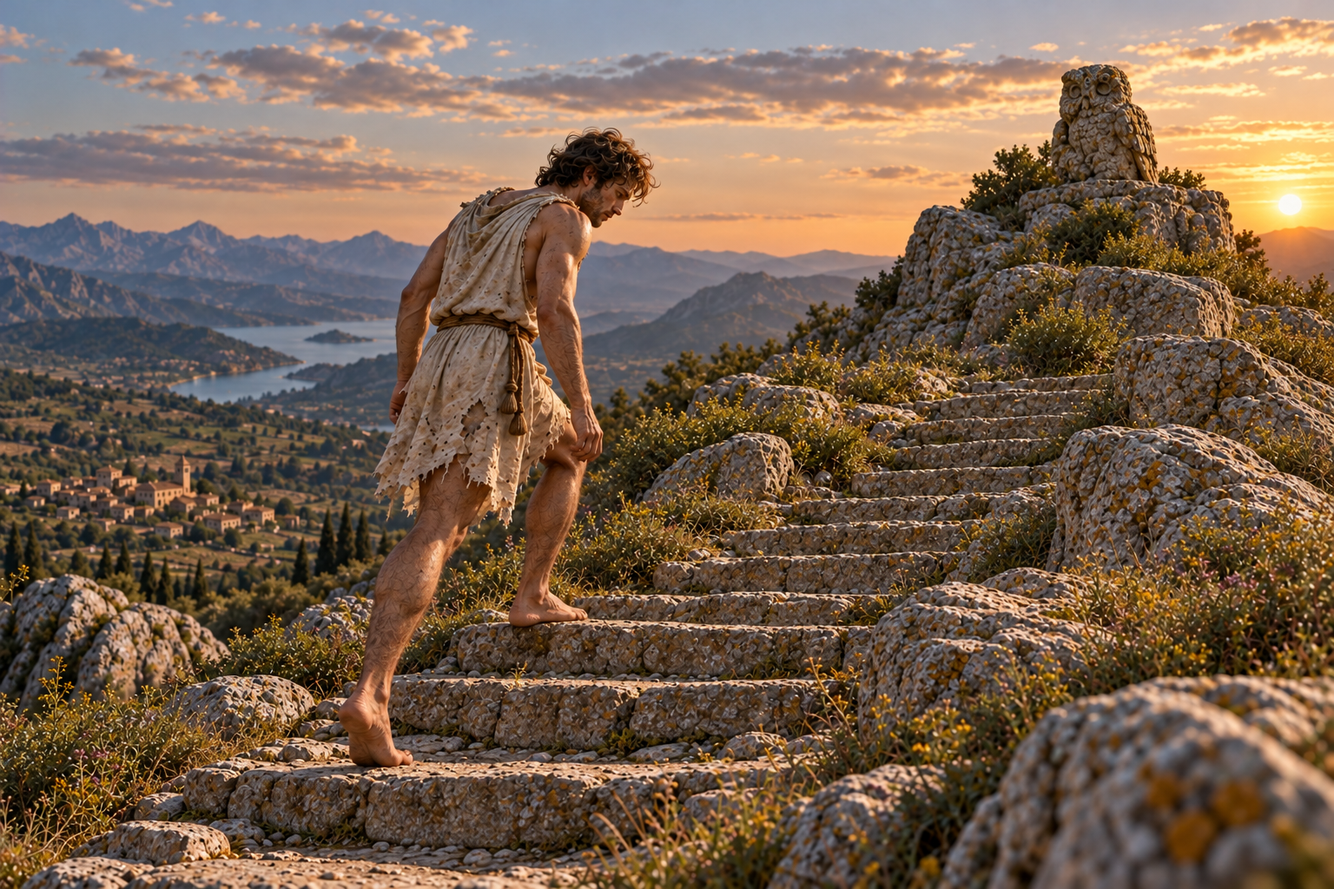
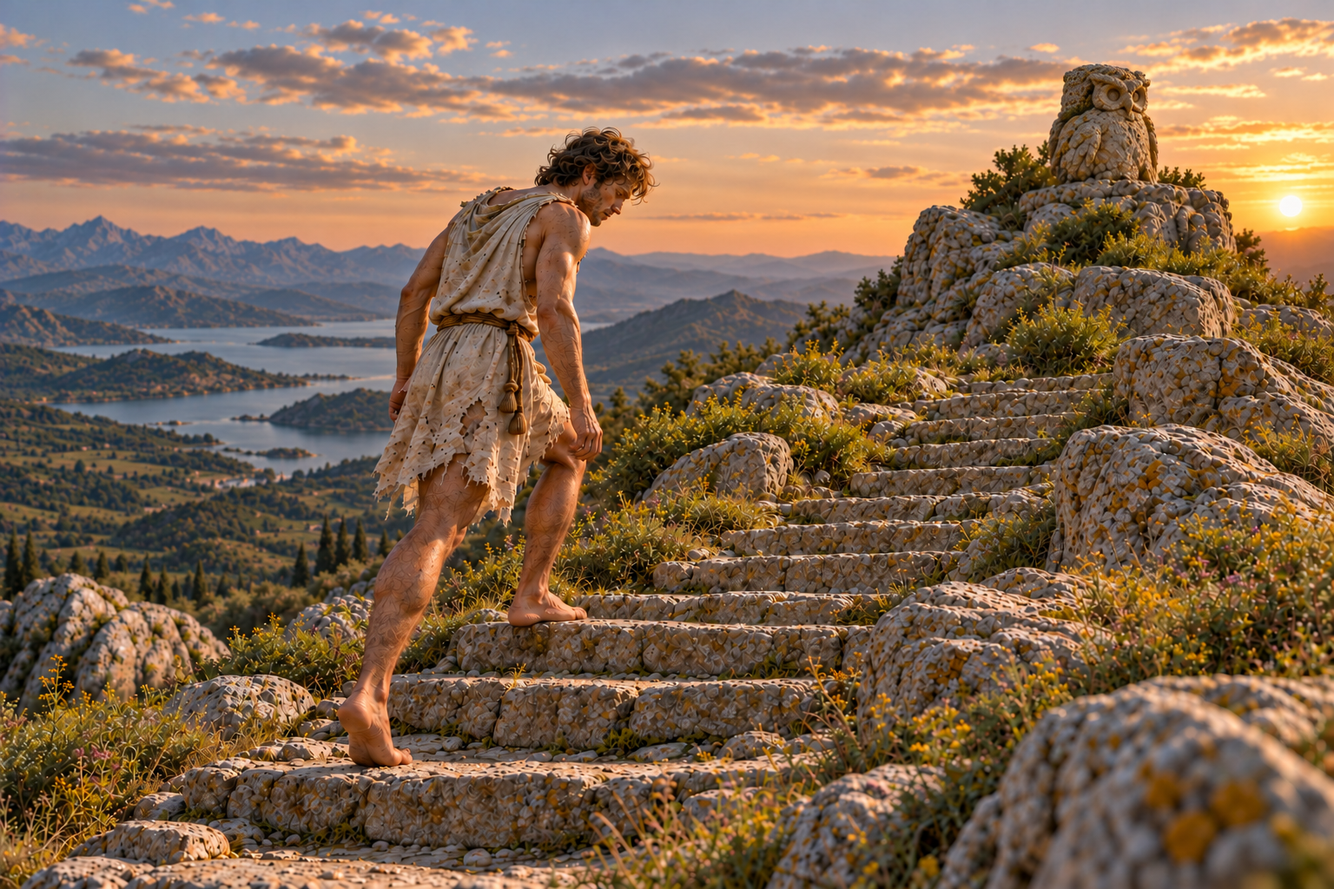
Синхронизируй фотки комикса

diff --git a/comic/comic.data.js b/comic/comic.data.js
@@ -1,1 +1,1 @@
-window.COMIC = {"version": 2, "title": "Путь Анеллиона", "story": [{"type": "scene", "text": "Во дворце Анеллион получает от гонцов доклад об уничтожении деревни войсками соседней империи.", "title": "Сон: известие во дворце", "thought": ""}, {"type": "scene", "text": "На Консильерге — пике, куда он приходит за советом и новыми мыслями, — Анеллион решает потребовать возмещения, выбрав горный обход охраняемой границы.", "title": "Сон: решение на Консильерге", "thought": ""}, {"type": "scene", "text": "У бескрайнего горного озера Анеллион организует лагерь и добычу припасов для отряда, в котором не все умеют плавать.", "title": "Сон: препятствие у озера", "thought": ""}, {"type": "scene", "text": "Анеллион раскрывает силу солнца и раздвигает воды озера, открывая всему отряду проход по дну.", "title": "Сон: сила Солнца", "thought": ""}, {"type": "scene", "text": "После спора об общей реке Анеллион берёт императора в плен со словами: «Коль не нравится что речка общая — будет только моя».", "title": "Сон: пленение императора", "thought": ""}, {"type": "scene", "text": "Вернувшись на Консильерг, Анеллион размышляет о жертвах и о том, что насилие было «практически» единственным выходом.", "title": "Сон: самоосознание", "thought": ""}, {"type": "scene", "text": "Анеллион проснулся. Ни дворца, ни войска, ни великой Империи. Только старая спальня и будильник от друга", "title": "Пробуждение", "thought": "Это был… сон?"}, {"type": "scene", "text": "Утро вернуло его в действительность. Но увиденное уже не отпускало.", "title": "Решимость", "thought": "Пока это только сон. Но я докажу себе, что могу этого достичь."}, {"type": "scene", "text": "Вот его спальня. Даже собственное жилище едва защищало от холода.", "title": "Первое владение: спальня", "thought": ""}, {"type": "scene", "text": "В общей столовой почти не осталось еды. Вот и всё, чем он сейчас правил.", "title": "Первое владение: столовая", "thought": ""}, {"type": "scene", "text": "Этот клочок деревни он отбил у нескольких варваров. Громкое слово «Империя» пока было скорее обещанием.", "title": "Первое владение: площадь", "thought": ""}, {"type": "scene", "text": "Кабинет был немногим лучше. Решений требовалось много, а знаний и средств не хватало.", "title": "Первое владение: кабинет", "thought": ""}, {"type": "scene", "text": "Среди старых бумаг нашёлся свиток о Консильерге — горе великих советчиков.", "title": "Находка: свиток", "thought": "Если там можно найти ответ, я должен попробовать."}, {"type": "scene", "text": "Он отправился к Консильергу, надеясь найти там начало своего пути.", "title": "Дорога к горе", "thought": ""}, {"type": "scene", "text": "У подножия его ждали бочка воды, пустой стакан и неожиданное условие.", "title": "Странное условие", "thought": "Выпить стакан воды… и не умереть?", "inscription": "Лишь тот, кто выпьет стакан этой воды и останется жив, сможет подняться на Консильерг."}, {"type": "scene", "text": "Анеллион рискнул и в холодном поту сделал глоток. Вода оказалась обычной водой, но страх не отступал: либо смерть, либо почёт.", "title": "Стакан воды", "thought": ""}, {"type": "scene", "title": "После глотка", "text": "Бокал опустел. Анеллион всё ещё был в холодном поту, но оставался жив. Значит, он достоин подняться на Консильерг. И тут он почувствовал на руке обжигающее прикосновение солнца.", "thought": ""}, {"type": "scene", "text": "Консильерг — гора великих советчиков. Здесь ищут новые мысли и оставляют знания, чтобы они помогли тем, кто придёт следом.", "title": "Что такое Консильерг", "thought": ""}, {"type": "scene", "text": "Он поднялся к вершине. На каменном уступе его ждала Сова — древняя и неподвижная.", "title": "Подъём", "thought": ""}, {"type": "scene", "text": "Сова не шевельнулась. Не прозвучало ни слова — но рядом с ней в голове Анеллиона возникла ясная мысль.", "title": "Каменная Сова", "thought": ""}, {"type": "scene", "text": "Мысль не обещала лёгкого чуда. Она предлагала начать с того, что Анеллион мог изменить сам.", "title": "Первый совет: знания", "thought": "Ты хочешь изменить свои владения? Начни со знаний в собственной голове. Учись понимать мир — и тебе станет легче принимать решения."}, {"type": "scene", "text": "Чтобы не забывать изученное, Анеллион должен был связать повторение знаний с привычными местами и вещами.", "title": "Совет: знания и предметы", "thought": "Подходи к разным предметам и проверяй, что помнишь. Возвращайся к трудным вопросам. Знания будут расти вместе с тобой — а твои решения помогут развиваться владениям."}, {"type": "scene", "text": "Последняя мысль прозвучала в его голове как условие следующей встречи.", "title": "Условие возвращения", "thought": "План у тебя есть. Теперь ступай. Вернуться сможешь, когда добьёшься первых успехов. До этого я тебя не пущу. А после буду помогать."}, {"type": "scene", "text": "Он вернулся туда, откуда ушёл. Всё вокруг осталось прежним — но теперь у него был план.", "title": "Возвращение", "thought": "Империя из сна сама не появится. Начну с малого."}, {"type": "scene", "text": "Большой путь начался у грязного окна.", "title": "Первый шаг: окно", "thought": "Начну с того, что передо мной."}], "frames": [{"image": "frames/01.png", "scene": 0}, {"image": "frames/02.png", "scene": 1}, {"image": "frames/03.png", "scene": 2}, {"image": "frames/04.png", "scene": 3}, {"image": "frames/05.png", "scene": 4}, {"image": "frames/06.png", "scene": 5}, {"image": "frames/07.png", "scene": 6}, {"image": "frames/08.png", "scene": 7}, {"image": "frames/09.png", "scene": 8}, {"image": "frames/10.png", "scene": 9}, {"image": "frames/11.png", "scene": 10}, {"image": "frames/12.png", "scene": 11}, {"image": "frames/13.png", "scene": 12}, {"image": "frames/14.png", "scene": 13}, {"image": "frames/15.png", "scene": 14}, {"image": "frames/16.png", "scene": 15}, {"image": "frames/16b-after-drink.png", "scene": 16}, {"image": "frames/17.png", "scene": 17}, {"image": "frames/18.png", "scene": 18}, {"image": "frames/19.png", "scene": 19}, {"image": "frames/20.png", "scene": 20}, {"image": "frames/21.png", "scene": 21}, {"image": "frames/22.png", "scene": 22}, {"image": "frames/23.png", "scene": 23}, {"image": "frames/24.png", "scene": 24}]};
+window.COMIC = {"version": 2, "title": "Путь Анеллиона", "story": [{"type": "scene", "text": "Во дворце Анеллион получает от гонцов доклад об уничтожении деревни войсками соседней империи.", "title": "Сон: известие во дворце", "thought": ""}, {"type": "scene", "text": "На Консильерге — пике, куда он приходит за советом и новыми мыслями, — Анеллион решает потребовать возмещения, выбрав горный обход охраняемой границы.", "title": "Сон: решение на Консильерге", "thought": ""}, {"type": "scene", "text": "У бескрайнего горного озера Анеллион организует лагерь и добычу припасов для отряда, в котором не все умеют плавать.", "title": "Сон: препятствие у озера", "thought": ""}, {"type": "scene", "text": "Анеллион раскрывает силу солнца и раздвигает воды озера, открывая всему отряду проход по дну.", "title": "Сон: сила Солнца", "thought": ""}, {"type": "scene", "text": "После спора об общей реке Анеллион берёт императора в плен со словами: «Коль не нравится что речка общая — будет только моя».", "title": "Сон: пленение императора", "thought": ""}, {"type": "scene", "text": "Вернувшись на Консильерг, Анеллион размышляет о жертвах и о том, что насилие было «практически» единственным выходом.", "title": "Сон: самоосознание", "thought": ""}, {"type": "scene", "text": "Анеллион проснулся. Ни дворца, ни войска, ни великой Империи. Только старая спальня и будильник от друга", "title": "Пробуждение", "thought": "Это был… сон?"}, {"type": "scene", "text": "Утро вернуло его в действительность. Но увиденное уже не отпускало.", "title": "Решимость", "thought": "Пока это только сон. Но я докажу себе, что могу этого достичь."}, {"type": "scene", "text": "Вот его спальня. Даже собственное жилище едва защищало от холода.", "title": "Первое владение: спальня", "thought": ""}, {"type": "scene", "text": "В общей столовой почти не осталось еды. Вот и всё, чем он сейчас правил.", "title": "Первое владение: столовая", "thought": ""}, {"type": "scene", "text": "Этот клочок деревни он отбил у нескольких варваров. Громкое слово «Империя» пока было скорее обещанием.", "title": "Первое владение: площадь", "thought": ""}, {"type": "scene", "text": "Кабинет был немногим лучше. Решений требовалось много, а знаний и средств не хватало.", "title": "Первое владение: кабинет", "thought": ""}, {"type": "scene", "text": "Среди старых бумаг нашёлся свиток о Консильерге — горе великих советчиков.", "title": "Находка: свиток", "thought": "Если там можно найти ответ, я должен попробовать."}, {"type": "scene", "text": "Он отправился к Консильергу, надеясь найти там начало своего пути.", "title": "Дорога к горе", "thought": ""}, {"type": "scene", "text": "У подножия его ждали бочка воды, пустой стакан и неожиданное условие.", "title": "Странное условие", "thought": "Выпить стакан воды… и не умереть?", "inscription": "Лишь тот, кто выпьет стакан этой воды и останется жив, сможет подняться на Консильерг."}, {"type": "scene", "text": "Анеллион рискнул и в холодном поту сделал глоток. Вода оказалась обычной водой, но страх не отступал: либо смерть, либо почёт.", "title": "Стакан воды", "thought": ""}, {"type": "scene", "title": "После глотка", "text": "Бокал опустел. Анеллион всё ещё был в холодном поту, но оставался жив. Значит, он достоин подняться на Консильерг. И тут он почувствовал на руке обжигающее прикосновение солнца.", "thought": ""}, {"type": "scene", "text": "Консильерг — гора великих советчиков. Здесь ищут новые мысли и оставляют знания, чтобы они помогли тем, кто придёт следом.", "title": "Что такое Консильерг", "thought": ""}, {"type": "scene", "text": "Он поднялся к вершине. На каменном уступе его ждала Сова — древняя и неподвижная.", "title": "Подъём", "thought": ""}, {"type": "scene", "text": "Сова не шевельнулась. Не прозвучало ни слова — но рядом с ней в голове Анеллиона возникла ясная мысль.", "title": "Каменная Сова", "thought": ""}, {"type": "scene", "text": "Мысль не обещала лёгкого чуда. Она предлагала начать с того, что Анеллион мог изменить сам.", "title": "Первый совет: знания", "thought": "Ты хочешь изменить свои владения? Начни со знаний в собственной голове. Учись понимать мир — и тебе станет легче принимать решения."}, {"type": "scene", "text": "Чтобы не забывать изученное, Анеллион должен был связать повторение знаний с привычными местами и вещами.", "title": "Совет: знания и предметы", "thought": "Подходи к разным предметам и проверяй, что помнишь. Возвращайся к трудным вопросам. Знания будут расти вместе с тобой — а твои решения помогут развиваться владениям."}, {"type": "scene", "text": "Последняя мысль прозвучала в его голове как условие следующей встречи.", "title": "Условие возвращения", "thought": "План у тебя есть. Теперь ступай. Вернуться сможешь, когда добьёшься первых успехов. До этого я тебя не пущу. А после буду помогать."}, {"type": "scene", "text": "Он вернулся туда, откуда ушёл. Всё вокруг осталось прежним — но теперь у него был план.", "title": "Возвращение", "thought": "Империя из сна сама не появится. Начну с малого."}, {"type": "scene", "text": "Большой путь начался у грязного окна.", "title": "Первый шаг: окно", "thought": "Начну с того, что передо мной."}], "frames": [{"image": "frames/01.png?v=b0af30f62e3e", "scene": 0}, {"image": "frames/02-wide-v2.png?v=6e89222bd6ea", "scene": 1}, {"image": "frames/03.png?v=56f77be04129", "scene": 2}, {"image": "frames/04.png?v=fa458285a413", "scene": 3}, {"image": "frames/05.png?v=6dc9d4a6ba6e", "scene": 4}, {"image": "frames/06.png?v=ec825e3258d8", "scene": 5}, {"image": "frames/07.png?v=fe96f7857703", "scene": 6}, {"image": "frames/08.png?v=f506506a86e2", "scene": 7}, {"image": "frames/09.png?v=af7417d5cd5c", "scene": 8}, {"image": "frames/10.png?v=413f1d4eaae3", "scene": 9}, {"image": "frames/11.png?v=066b605fd433", "scene": 10}, {"image": "frames/12.png?v=9ae762e4f9da", "scene": 11}, {"image": "frames/13.png?v=eef947bfbedc", "scene": 12}, {"image": "frames/14.png?v=0ae2d181082d", "scene": 13}, {"image": "frames/15.png?v=5aa0cd309993", "scene": 14}, {"image": "frames/16.png?v=4fff6e371c1c", "scene": 15}, {"image": "frames/16b-after-drink.png?v=344ecda6ed75", "scene": 16}, {"image": "frames/17.png?v=2a9c7f34a3cd", "scene": 17}, {"image": "frames/18.png?v=022d6cc2ba42", "scene": 18}, {"image": "frames/19.png?v=80bf9790eb11", "scene": 19}, {"image": "frames/20.png?v=3622c39d8eda", "scene": 20}, {"image": "frames/21.png?v=5b16ea9fc1b5", "scene": 21}, {"image": "frames/22.png?v=2d74734c4afa", "scene": 22}, {"image": "frames/23.png?v=3aa35ccf4948", "scene": 23}, {"image": "frames/24.png?v=375cc67a01dc", "scene": 24}]};
